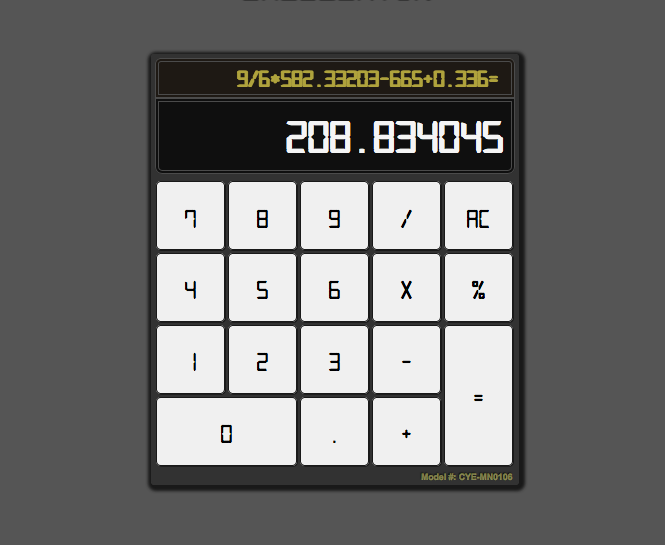
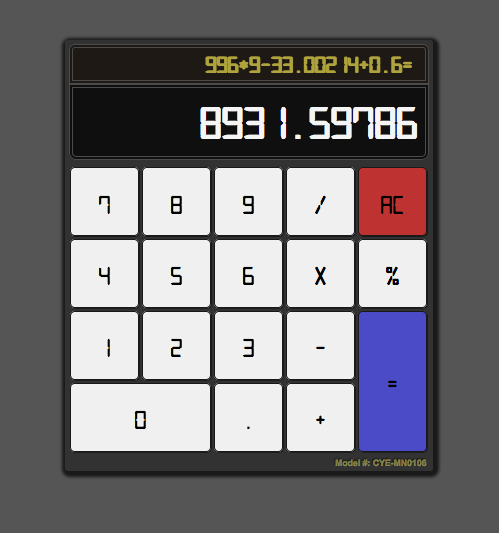
updated button colors for AC & =

diff --git a/src/Buttons.css b/src/Buttons.css
@@ -27,7 +27,6 @@ button{
   
 button:hover {
     background: rgba(200, 200, 200, 0.75);
-    
 }
   
 button:active {
@@ -36,7 +35,6 @@ button:active {
     box-shadow: inset .025em .025em .05em .05em rgb(25, 25, 25);
     background: gray;
     color: rgb(200, 220, 250);
-    
 }
   
 .buttons > #zero{
@@ -109,4 +107,36 @@ button:active {
   
 .buttons > #allclear{
     grid-area: ac;
+}
+
+#equal {
+    background: rgb(75, 75, 200);
+}
+
+#equal:hover {
+    background: rgba(25, 65, 150, 0.75);
+}
+  
+#equal:active {
+    transform: translate(.0525em,.0525em);
+    font-size: 1.85em;
+    box-shadow: inset .025em .025em .05em .05em rgb(25, 25, 25);
+    background: rgb(20, 50, 130);
+    color: rgba(220, 200, 150, 0.75);
+}
+
+#allclear {
+    background: rgb(190, 50, 50);
+}
+
+#allclear:hover {
+    background: rgba(170, 45, 45, 0.75);
+}
+  
+#allclear:active {
+    transform: translate(.0525em,.0525em);
+    font-size: 1.85em;
+    box-shadow: inset .025em .025em .05em .05em rgb(25, 25, 25);
+    background: rgb(130, 20, 30);
+    color: rgba(220, 200, 150, 0.75);
 }

diff --git a/src/store.js b/src/store.js
@@ -110,8 +110,12 @@ const evalReducer = (state = defaultState, action) => {
 
 
         case 'evaluate': 
+            //if entry is empty then return state.
+            if (state.currExp === '' && state.currVal === ''){
+                return state;
+            }
             //if currExp is not evaluated yet, then evaluate. 
-            if (!state.isSolved) {
+            else if (!state.isSolved) {
                 //if currExp ends with an operator, exclude it then evaluate.
                 if ((/[-+*/%]$/).test(state.currExp)) {
                     newFormula = state.currExp.slice(0,state.currExp.length-1);
